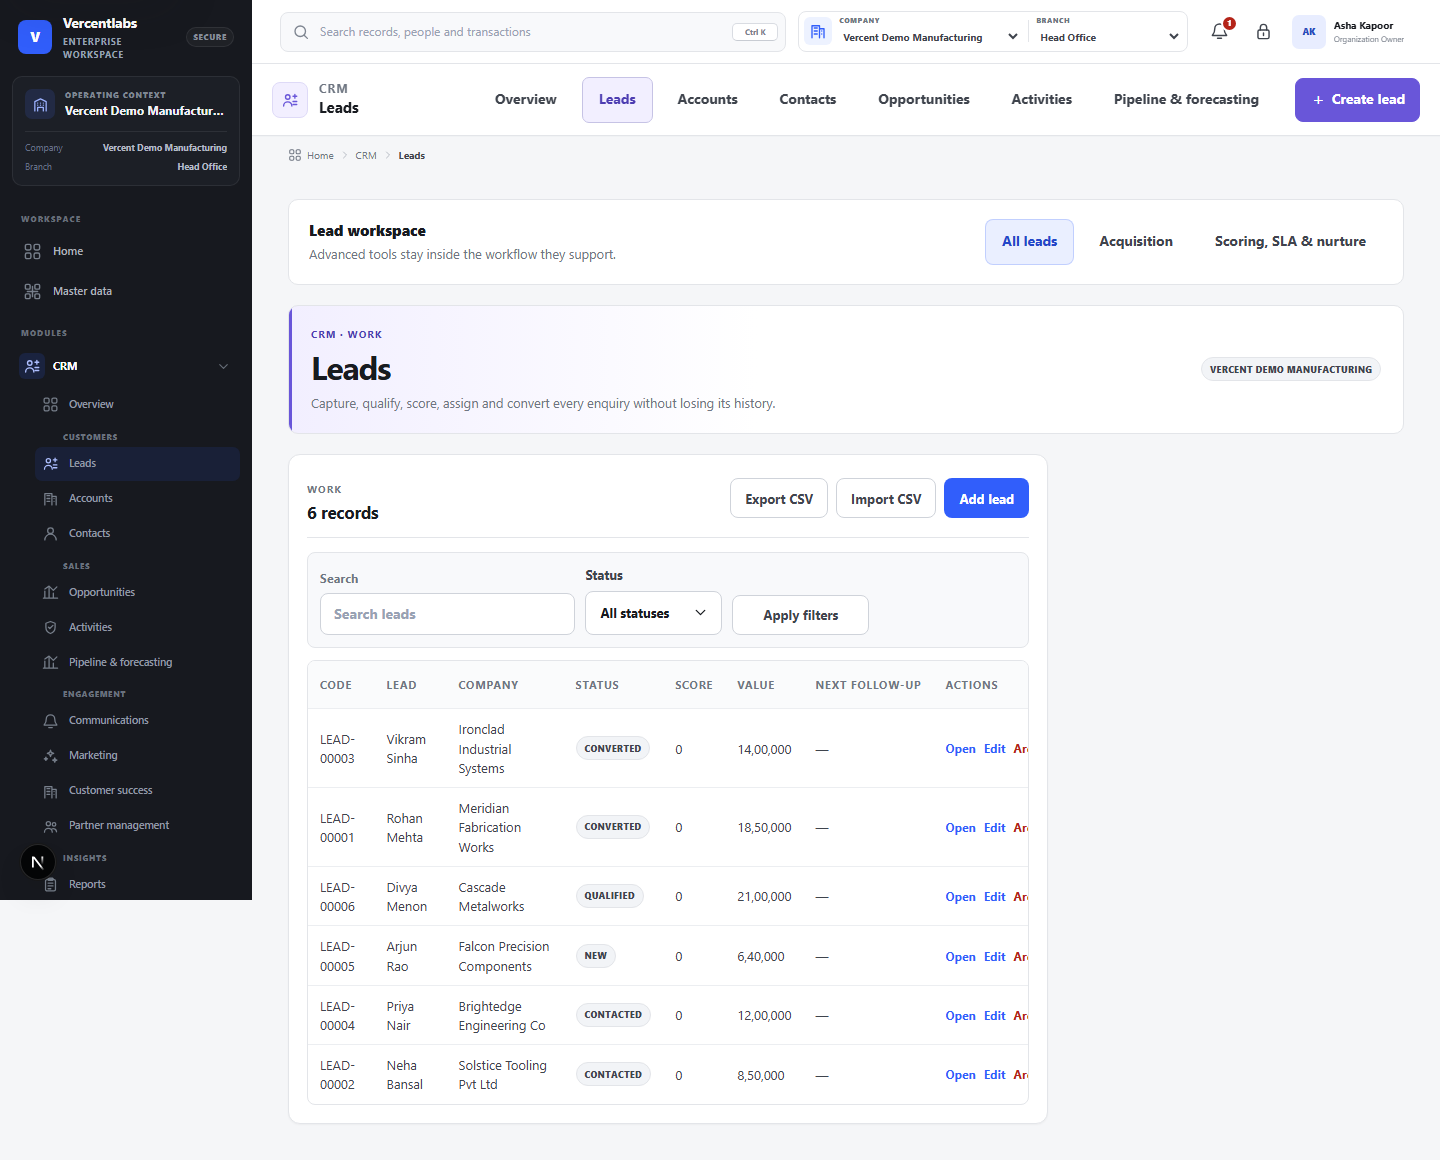
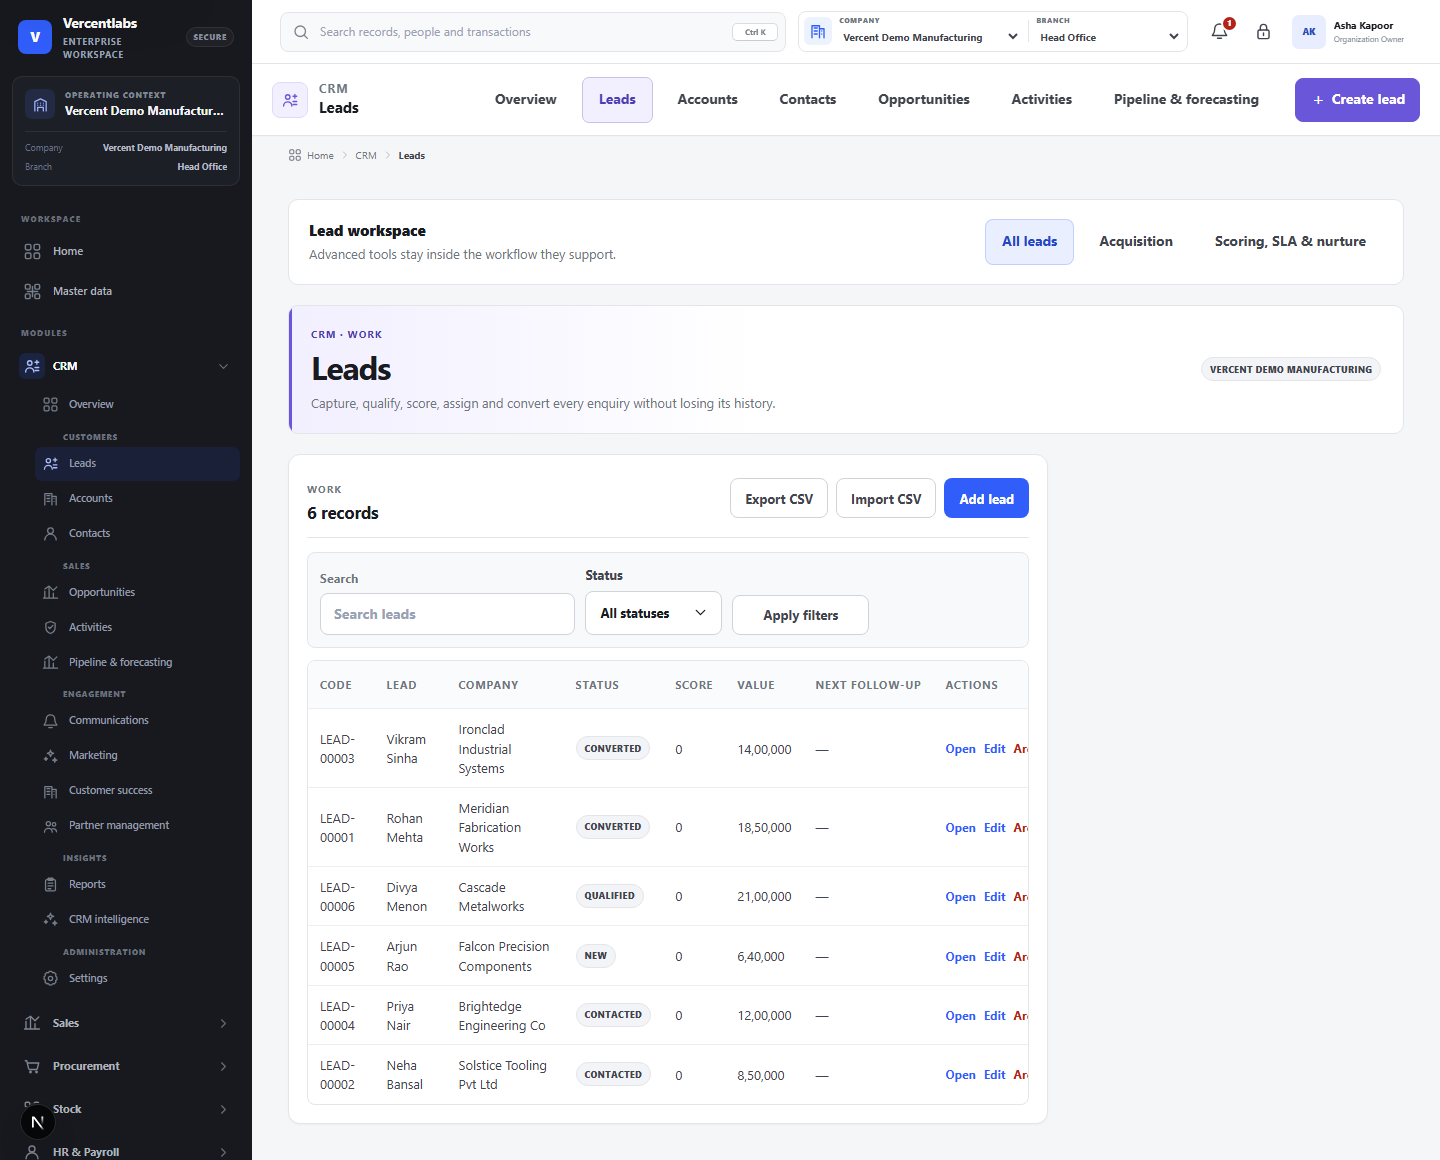
fix(landing): fix marketing screenshot capture artifacts (sidebar cutoff, oversized crop)
fullPage screenshot capture didn't repeat the app shell's sticky sidebar past
the first viewport, leaving a dead gray gap beside content that kept
scrolling (sales-quotation-detail, sales-order-detail, crm-leads-list).
Separately, capturing full document height produced unnaturally tall/square
images that didn't read as browser windows. Capture script now resizes to
content height (capped at 1080px) for a single non-stitched screenshot
instead of relying on fullPage stitching. Recaptured all three affected
assets against the existing seeded demo org and updated their registered
dimensions.

Changed region(s): [[0.0, 0.7138, 0.1875, 1.0]]

diff --git a/apps/landing/lib/product/screenshots.ts b/apps/landing/lib/product/screenshots.ts
@@ -54,7 +54,7 @@ export const APPROVED_SCREENSHOTS: readonly ProductScreenshot[] = Object.freeze(
     src: "/product/sales-quotation-detail.png",
     alt: "Sales quotation detail page showing commercial line items, totals, an immutable revision history, and a full document audit trail from created through sent, viewed, accepted, and converted.",
     width: 1440,
-    height: 1364,
+    height: 1080,
     module: "sales",
     workflow: "lead-to-cash",
     caption: "Quotations carry an immutable audit trail — every state change timestamped, nothing overwritten.",
@@ -65,7 +65,7 @@ export const APPROVED_SCREENSHOTS: readonly ProductScreenshot[] = Object.freeze(
     src: "/product/sales-order-detail.png",
     alt: "Sales order detail page showing document governance status for readiness, fulfilment, invoicing and closure, order lines with a quantity lifecycle from ordered through confirmed, fulfilled, invoiced, and remaining.",
     width: 1440,
-    height: 1290,
+    height: 1080,
     module: "sales",
     workflow: "lead-to-cash",
     caption: "Sales orders track full quantity lifecycle and governance state — nothing ships or bills without the gate clearing.",

diff --git a/packages/landing-content/src/homepage.js b/packages/landing-content/src/homepage.js
@@ -66,7 +66,7 @@ export const CONNECTED_SYSTEM_SECTION = Object.freeze({
     { label: "Opportunity", module: "crm", detail: "Progresses through a governed pipeline with qualification checkpoints." },
     { label: "Quotation", module: "sales", detail: "Priced with GST-aware tax rules, accepted publicly with a digital signature." },
     { label: "Sales order", module: "sales", detail: "Converted from the accepted quotation with a real-time credit check." },
-    { label: "Warehouse & production", module: "stock", detail: "See the same order and item records — no separate spreadsheet to reconcile." },
+    { label: "Warehouse", module: "stock", detail: "See the same order and item records — no separate spreadsheet to reconcile." },
     { label: "Quality", module: "quality", detail: "Inspects incoming, in-process, and outgoing goods against the same item and batch records." },
     { label: "Invoice", module: "accounting", detail: "Generated from the order through an auditable, idempotent handoff." },
     { label: "Support", module: "support", detail: "Any resulting ticket carries the full order and account history automatically." },
